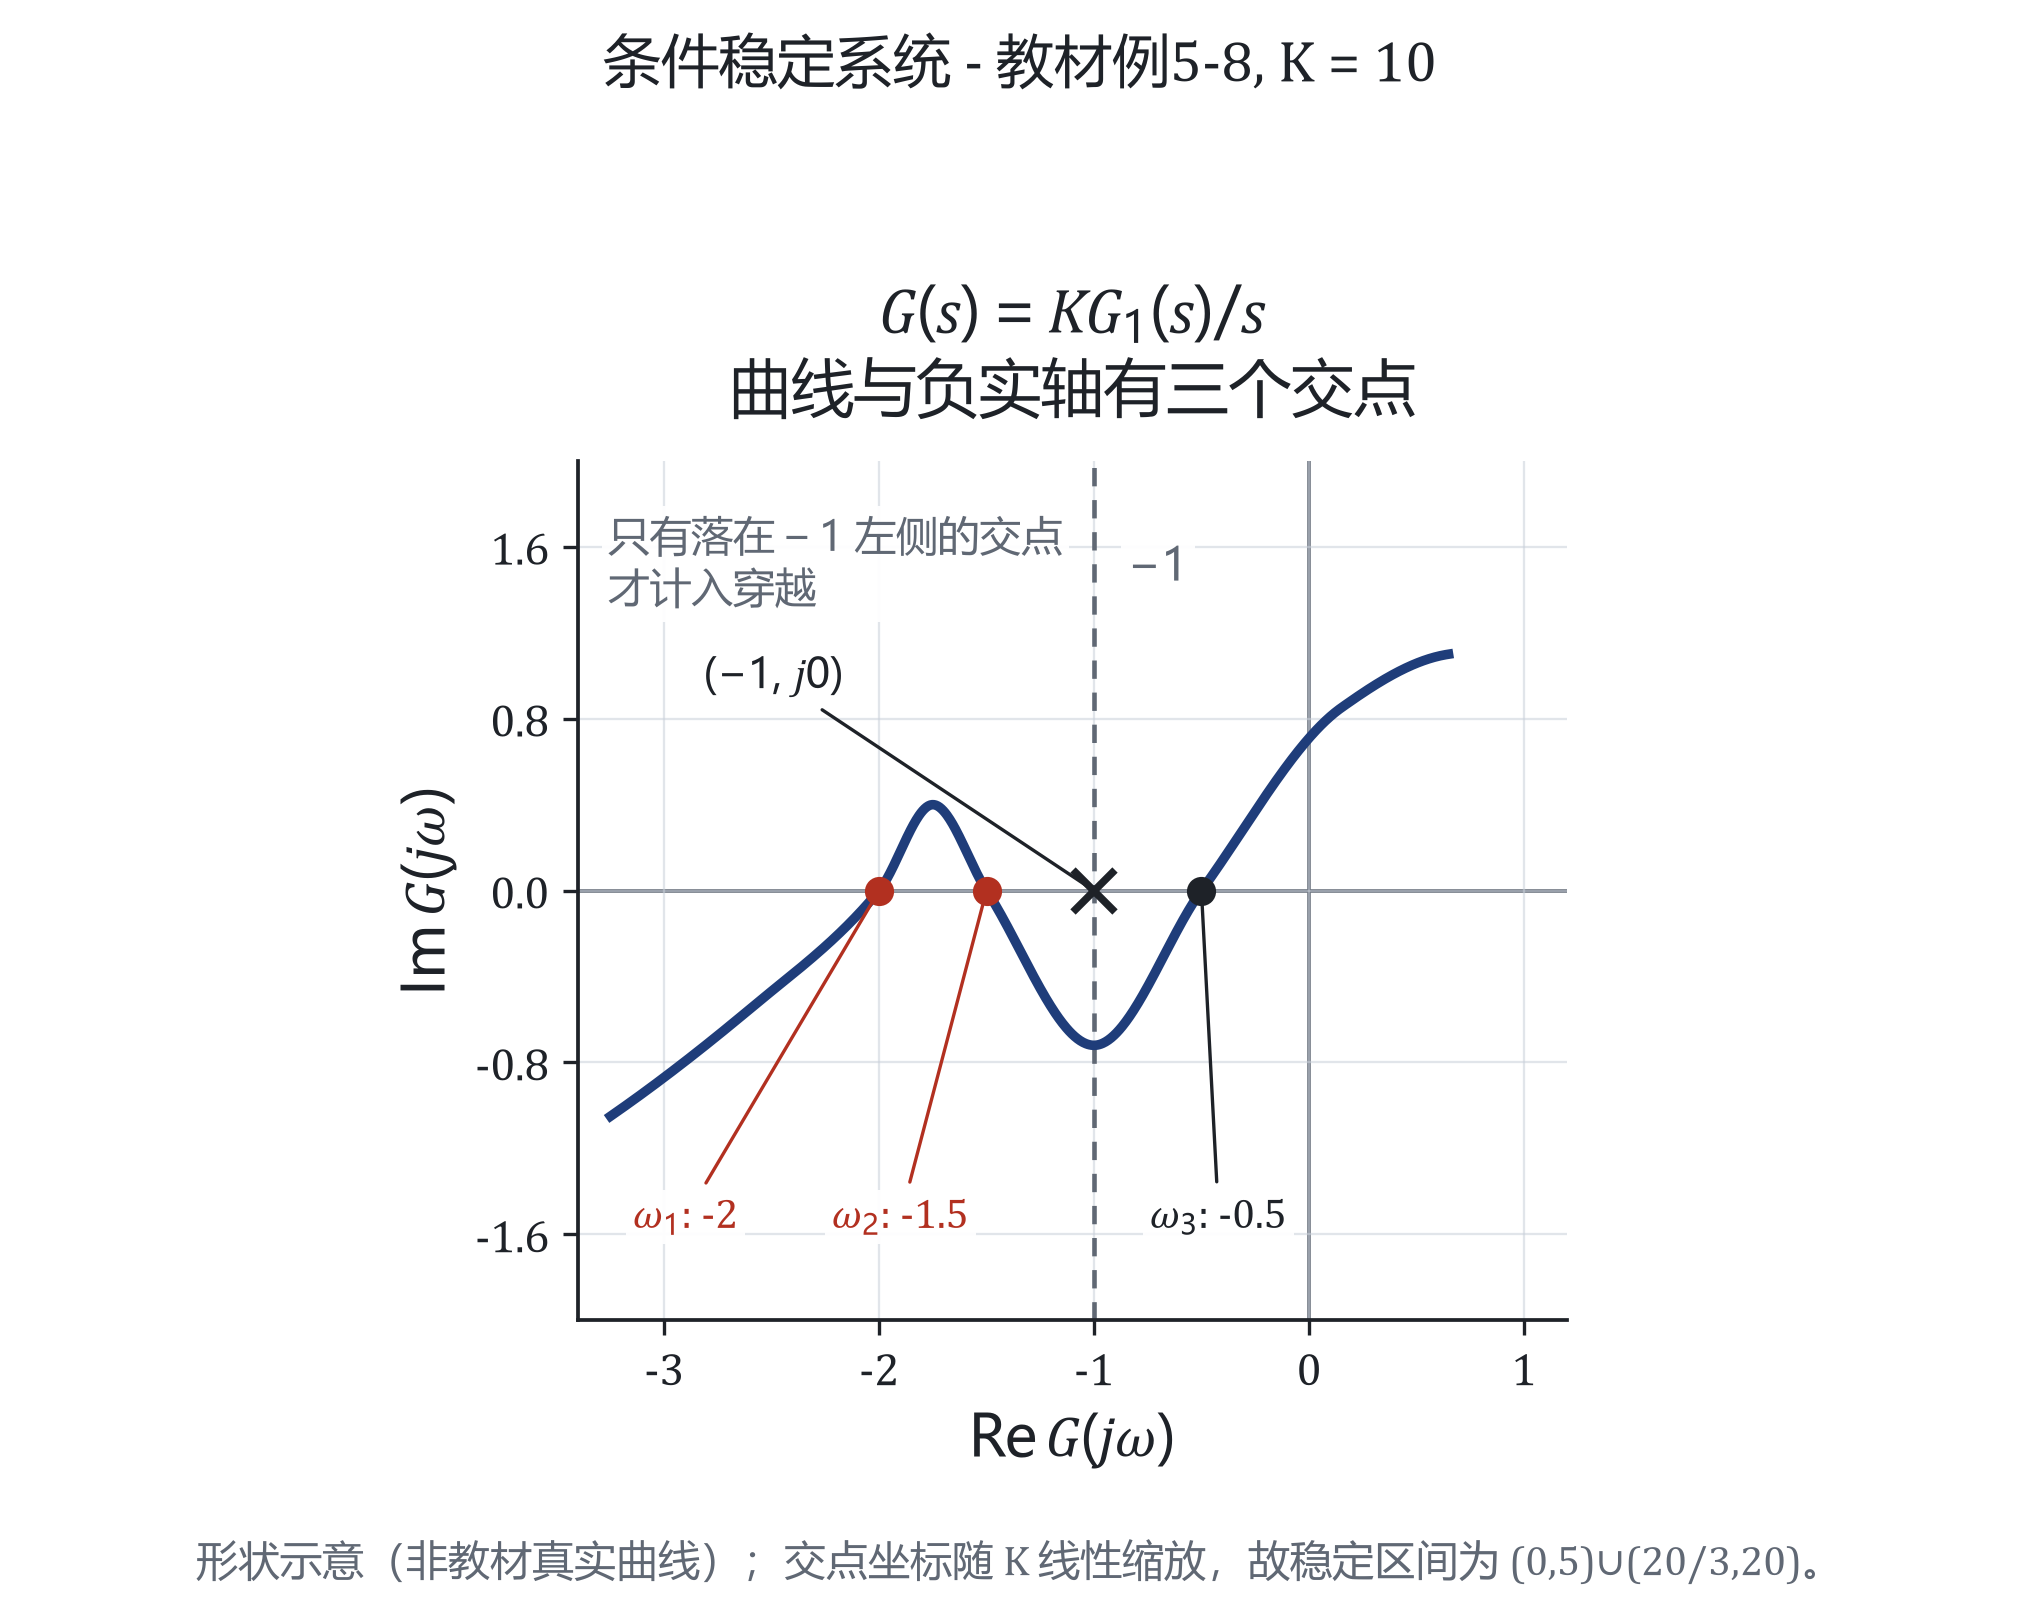
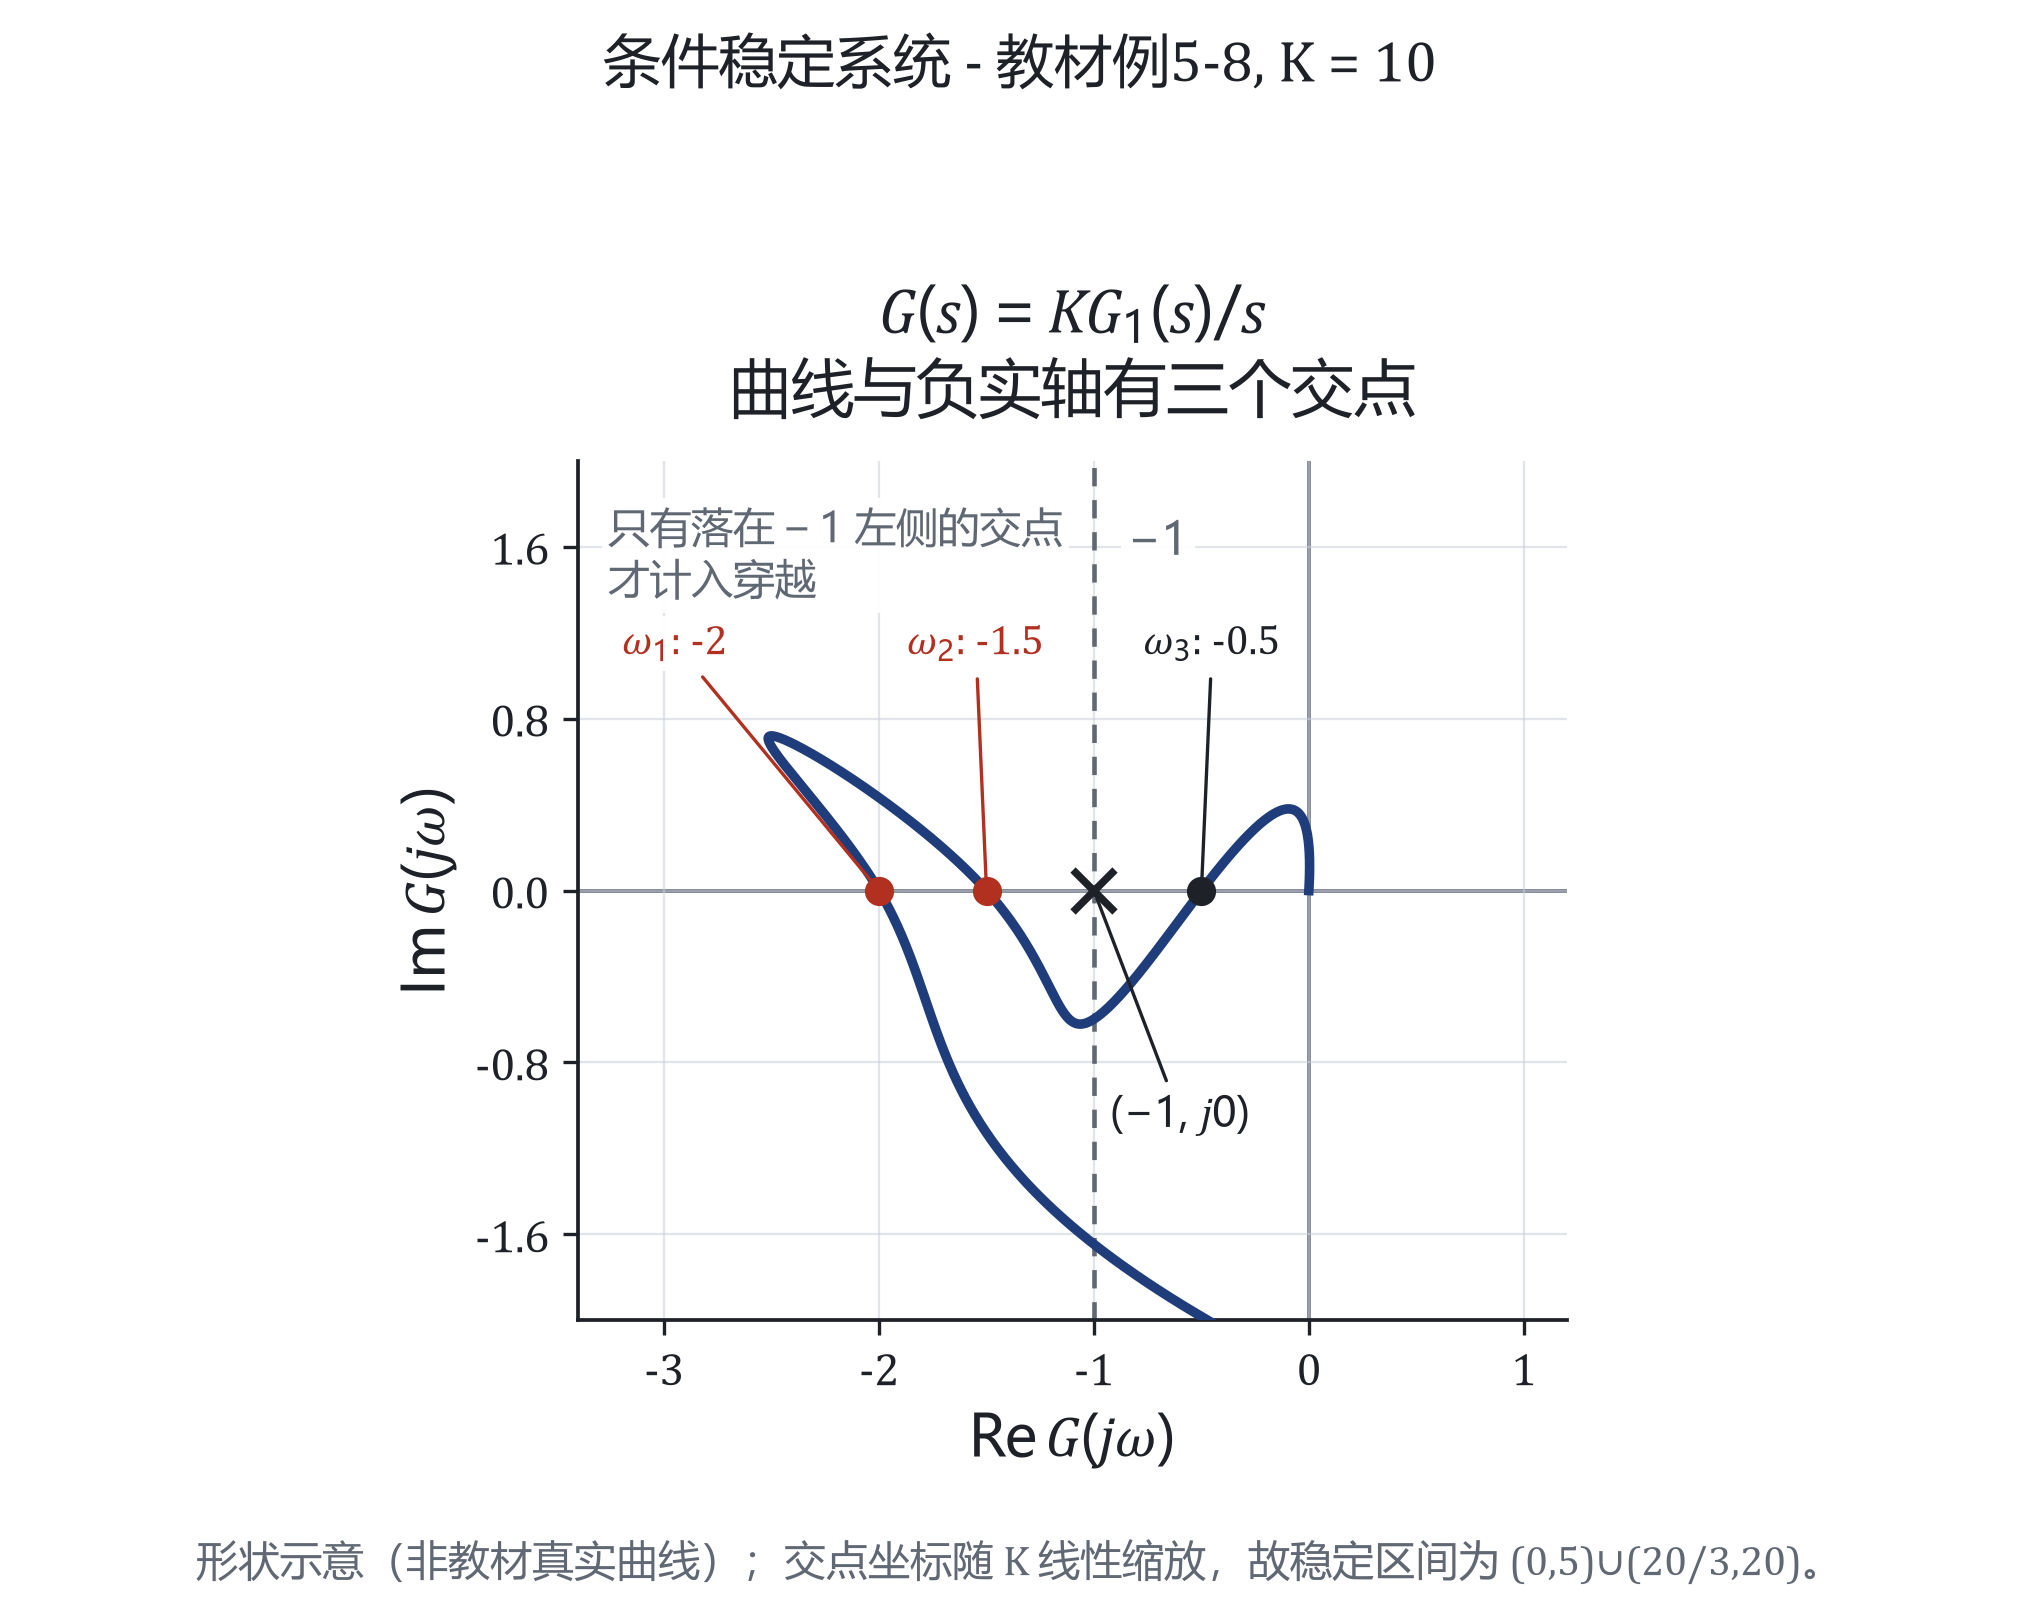
fix: 05-4-a 虚轴奇点补弧图改竖排、条件稳定奈氏图重画
补弧图原为 1x3 横排（3420x1200），笔记里按 |520 显示时每张子图仅约 170px，
字全糊。改为 3x1 竖排（1620x3480，|460 显示约 460x988），字号随之上调，
图注补「自上而下依次对应上表的三行」并修正 (b) 下标笔误。

条件稳定图原用 PCHIP（要求 x 单调，而本曲线 x 不单调）构造，形状不可控。
改用 CubicSpline 参数样条：低频端伸到画面之外、高频收于原点，三个交点
-2/-1.5/-0.5 依次负、正、负穿越，并加四条语义断言（交点处 y=0、过零恰 3 次、
穿越方向与正文一致、低频端出画）。标注重排到曲线够不到的空带。

两张图自检均为「文字 NN 个，问题 0 处」。

diff --git a/.scripts/figures/nyquist-05-2-c.py b/.scripts/figures/nyquist-05-2-c.py
@@ -4,9 +4,12 @@
 
 条件稳定：教材例5-8，$K=10$ 时曲线与负实轴有三个交点 $-2,-1.5,-0.5$，
 交点横坐标随 $K$ 线性缩放，故稳定区间为 $(0,5)\\cup(20/3,20)$。
-教材原图为示意，这里用保形插值（PCHIP）构造一条**严格过三个交点**的曲线，
-并把峰谷压在 $\\pm1.1$ 以内——目的一：曲线真的过"交点"（原来圆点画在实轴上、
-曲线却在 $y\\neq0$ 处，是失真的）；目的二：上下各留出一条空白带专门放标注。
+教材原图为示意。曲线用**参数样条**（x 不单调，不能插值成 y(x)）构造，沿 $\\omega$
+增大方向依次经过：低频端 $(0.1,-2.3)$（画外，表现 $\\nu=1$ 时 $\\omega\\to0$ 沿 $-90^\\circ$
+冲向无穷远）$\\to$ 交点 $-2$（自下而上＝负穿越）$\\to-1.5$（自上而下＝正穿越）
+$\\to-0.5$（自下而上＝负穿越）$\\to$ 收于原点 $0\\angle-270^\\circ$。
+（前一版峰谷封在 $\\pm1.1$ 内、两头都不出画，看着像一段小波浪而不像幅相曲线，
+高频端也没回到原点——已改。）穿越方向、过零次数全部由断言把关。
 
 结构不稳定：$G(s)H(s)=K/[s^2(Ts+1)]$，$\\nu=2$ 使低频相角起步 $-180°$，
 相频始终在 $-180°\\sim-270°$，曲线从第三象限冲向无穷远，$(-1,j0)$ 被围住，
@@ -26,7 +29,7 @@ from pathlib import Path
 
 import control as ct
 import numpy as np
-from scipy.interpolate import PchipInterpolator
+from scipy.interpolate import CubicSpline
 
 import matplotlib.pyplot as plt
 
@@ -43,35 +46,55 @@ def fig_conditionally_stable():
                      r"$G(s)=K G_1(s)/s$" "\n"
                      r"$\mathrm{曲线与负实轴有三个交点}$",
                      (-3.4, 1.2), (-2.0, 2.0), figsize=(6.8, 5.4))
-    # 保形插值：强制在 -2 / -1.5 / -0.5 处取零（真交点），峰谷控制在 ±1.1 内，
-    # 于是 y>1.2 与 y<-1.1 各成一条空白带，专门用来放标注。
-    knots_x = np.array([-3.25, -2.6, -2.0, -1.75, -1.5, -1.0, -0.5, 0.15, 0.65])
-    knots_y = np.array([-1.05, -0.55, 0.0, 0.40, 0.0, -0.72, 0.0, 0.85, 1.10])
-    x = np.linspace(knots_x[0], knots_x[-1], 900)
-    ax.plot(x, PchipInterpolator(knots_x, knots_y)(x),
-            color=fs.MAG, lw=2.3, zorder=4)
+    # 参数样条（x 不单调，不能插值成 y(x)）：沿 ω 增大方向依次经过
+    #   低频端 (0.10, -2.30) —— 画外，表现 ν=1 时 ω→0 沿 -90° 冲向无穷远；
+    #   交点 -2（自下而上 = 负穿越）、-1.5（自上而下 = 正穿越）、-0.5（自下而上 = 负穿越）；
+    #   高频端收于原点 0∠-270°（从正虚轴方向下来）。穿越方向与正文一致。
+    knots_x = np.array([0.10, -1.55, -2.00, -2.50, -1.50, -1.05, -0.50, -0.10, 0.0])
+    knots_y = np.array([-2.30, -1.05, 0.0, 0.72, 0.0, -0.62, 0.0, 0.38, 0.0])
+    t = np.linspace(0.0, 1.0, knots_x.size)
+    # 采样点要把控制点的参数值并进去，否则最近采样点可能落在陡峭处，
+    # 断言会误判（如 x=-1.5 处取到 y=-1.13）
+    tt = np.sort(np.concatenate([np.linspace(0.0, 1.0, 900), t]))
+    cx, cy = CubicSpline(t, knots_x)(tt), CubicSpline(t, knots_y)(tt)
+    # 语义自检：① 三个交点处确实 y=0；② 整条曲线只过零三次（样条不许在中间
+    # 多拐出交点）；③ 穿越方向与正文一致（下→上为负、上→下为正）；
+    # ④ 低频端伸到画面之下（表现 ω→0 冲向无穷远）。
+    for xc in crossings:
+        k = int(np.argmin(np.abs(cx - xc)))
+        assert abs(cy[k]) < 0.03, (xc, cy[k])
+    nz = np.where(np.abs(cy) > 0.05, np.sign(cy), 0)
+    nz = nz[nz != 0]
+    assert int(np.sum(nz[:-1] * nz[1:] < 0)) == 3, "过零次数应恰为 3"
+    for xc, want in zip(crossings, (-1, 1, -1)):
+        k = int(np.argmin(np.abs(cx - xc)))
+        lo, hi = cy[k - 40], cy[k + 40]
+        assert (-1 if lo < 0 < hi else 1) == want, (xc, lo, hi)
+    assert cy[0] < -2.0, cy[0]
+    ax.plot(cx, cy, color=fs.MAG, lw=2.3, zorder=4)
 
     ax.axvline(-1, color=fs.SUB, lw=1.1, ls=(0, (4, 3)), zorder=2)
     # 竖线标签放在线的右侧、顶部空白带里，不骑线
-    ax.annotate(r"$-1$", (-1, 1.50), xytext=(8, 0),
+    ax.annotate(r"$-1$", (-1, 1.62), xytext=(8, 0),
                 textcoords="offset points", color=fs.SUB, fontsize=11,
                 ha="left", va="center", bbox=BOX, zorder=8)
-    # 交点文字统一沉到底部空白带，再用细引线连回交点
-    tag_x = (-2.90, -1.90, -0.42)
+    # 交点文字统一抬到曲线上方那条空带；引线取竖直方向，只在交点处与曲线相接，
+    # 不会横穿曲线（曲线在每个 x 上只有一个 y）
+    tag_x = (-2.95, -1.55, -0.45)
     for i, xc in enumerate(crossings):
         colour = fs.PHA if xc < -1 else fs.INK
         ax.plot(xc, 0, "o", ms=6, color=colour, zorder=7)
         ax.annotate(rf"$\omega_{i + 1}$: {xc:g}", (xc, 0),
-                    xytext=(tag_x[i], -1.52), fontsize=10, color=colour,
+                    xytext=(tag_x[i], 1.15), fontsize=10, color=colour,
                     ha="center", va="center", bbox=BOX, zorder=8,
                     arrowprops=dict(arrowstyle="-", lw=0.8, color=colour))
     ax.plot(-1, 0, marker="x", color=fs.INK, ms=10, mew=1.8, zorder=9)
-    # (-1,j0)：抬到曲线正峰（0.40）之上，且整体留在竖线左侧
-    ax.annotate(r"$(-1,\,j0)$", (-1, 0), xytext=(-60, 46),
-                textcoords="offset points", fontsize=10, color=fs.INK,
-                ha="right", va="bottom", bbox=BOX, zorder=9,
+    # (-1,j0)：曲线在这段最低到 -0.62，只能压到 -1.05 一带的下方空档；
+    # 且框要整个留在竖线右侧，否则会压住 x=-1 那条竖虚线
+    ax.annotate(r"$(-1,\,j0)$", (-1, 0), xytext=(-0.60, -1.05), fontsize=10,
+                color=fs.INK, ha="center", va="center", bbox=BOX, zorder=9,
                 arrowprops=dict(arrowstyle="-", lw=0.8, color=fs.INK))
-    ax.text(0.03, 0.94, r"$\mathrm{只有落在}-1\ \mathrm{左侧的交点}$"
+    ax.text(0.03, 0.95, r"$\mathrm{只有落在}-1\ \mathrm{左侧的交点}$"
                         "\n"
                         r"$\mathrm{才计入穿越}$",
             transform=ax.transAxes, fontsize=10, color=fs.SUB, bbox=BOX,

diff --git a/.scripts/figures/nyquist-spine-arcs.py b/.scripts/figures/nyquist-spine-arcs.py
@@ -9,6 +9,10 @@
 映射到 G 平面后分别是 ν×90° 逆时针、q×180° 顺时针的无穷大弧，以及"收于原点、
 图像连续"——这三条写在正文表里，本图只交代 s 平面那一半。
 图内中文一律写进 $\\mathrm{…}$，`$…$` 段内不用全角标点。
+
+**为什么要竖排**（2026-09-24 改）：原来 1×3 横排、整图 11.4 英寸宽，笔记里按
+|520 显示时每张子图只剩 ~170px，字全糊了。改成 3×1 竖排后每张子图占满整幅宽度，
+同样 |520 显示下每张约 520px，能看清绕法与箭头。
 """
 from __future__ import annotations
 
@@ -49,21 +53,23 @@ def arrow_arc(ax, r, a0, a1, colour, lw=2.2):
 
 def fig_spine_arcs():
     fs.use_style()
-    fig, axes = plt.subplots(1, 3, figsize=(11.4, 4.0))
+    # 3×1 竖排：横排时每张子图在笔记里只有 ~170px 宽，字全糊了
+    fig, axes = plt.subplots(3, 1, figsize=(5.4, 11.6))
 
     # (a) 原点 ν 重极点：只绕 1/4 圈
     ax = axes[0]
     setup(ax)
     ax.plot([0, 0], [-1.05, 1.05], color=fs.INK, lw=1.8, zorder=3)
     arrow_arc(ax, 0.45, 0, 90, fs.PHA)
-    ax.text(-0.06, 1.06, r"$\mathrm{轴就是虚轴: }\sigma=0,\ \omega\in\mathbb{R}$",
-            fontsize=9, color=fs.INK, bbox=BOX, ha="left", zorder=8)
+    # 标签摆虚轴**左侧**（ha="right"）：原来从 x=-0.06 往右写，正好骑在虚轴上
+    ax.text(-0.06, 1.06, r"$\mathrm{虚轴: }\sigma=0,\ \omega\in\mathbb{R}$",
+            fontsize=10, color=fs.INK, bbox=BOX, ha="right", zorder=8)
     ax.text(0.52, 0.60,
             r"$\mathrm{小右半圆: }\theta:0\to90^\circ$" "\n"
             r"$\mathrm{(只需绕到正虚轴)}$" "\n"
             r"$\mathrm{映射: 逆时针}\ \nu\times90^\circ$",
-            fontsize=9, color=fs.PHA, bbox=BOX, ha="left", zorder=8)
-    ax.set_title(r"$\mathrm{(a) 原点}\ \nu\ \mathrm{重极点}$", fontsize=11)
+            fontsize=10, color=fs.PHA, bbox=BOX, ha="left", zorder=8)
+    ax.set_title(r"$\mathrm{(a) 原点}\ \nu\ \mathrm{重极点}$", fontsize=11.5)
 
     # (b) 非零 jω₀ 处 q 重极点：绕完整小右半圆
     ax = axes[1]
@@ -78,12 +84,11 @@ def fig_spine_arcs():
             bbox=BOX, ha="left", zorder=8)
     ax.text(0.52, 0.10,
             r"$\mathrm{完整小右半圆: }\theta:-90^\circ\to90^\circ$" "\n"
-            r"$\mathrm{(要绕回}_{\mathrm{轴}})$"
-            r"$\mathrm{, 不是一半}$" "\n"
+            r"$\mathrm{(完整半圈, 不是}\ 1/4\ \mathrm{圈)}$" "\n"
             r"$\mathrm{映射: 顺时针}\ q\times180^\circ$",
-            fontsize=9, color=fs.PHA, bbox=BOX, ha="left", zorder=8)
+            fontsize=10, color=fs.PHA, bbox=BOX, ha="left", zorder=8)
     ax.set_title(r"$\mathrm{(b)}\ j\omega_0\ \mathrm{处}\ q\ \mathrm{重极点}$",
-                 fontsize=11)
+                 fontsize=11.5)
 
     # (c) jω₀ 处零点：不必绕
     ax = axes[2]
@@ -97,8 +102,8 @@ def fig_spine_arcs():
             r"$\mathrm{零点: }G\ \mathrm{在此解析}$" "\n"
             r"$\mathrm{围线直接穿过, 不绕}$" "\n"
             r"$\mathrm{映射: 两端收于原点, 连续}$",
-            fontsize=9, color=fs.MAG, bbox=BOX, ha="left", zorder=8)
-    ax.set_title(r"$\mathrm{(c)}\ j\omega_0\ \mathrm{处零点}$", fontsize=11)
+            fontsize=10, color=fs.MAG, bbox=BOX, ha="left", zorder=8)
+    ax.set_title(r"$\mathrm{(c)}\ j\omega_0\ \mathrm{处零点}$", fontsize=11.5)
 
     # (b)(c) 的围线画在 Im s = 0.55，标注一下
     for ax in axes[1:]:

diff --git a/控制理论/自动控制原理/05-4-a 奈氏特殊情形与条件稳定.md b/控制理论/自动控制原理/05-4-a 奈氏特殊情形与条件稳定.md
@@ -37,9 +37,9 @@ $$
 | 非零 $\mathrm j\omega_0$ 处 $q$ 重**极点** | 绕**完整** $180°$：$\theta:-90°\to90°$ | 顺时针 $q\times180°$ 的**无穷大**弧 | 沿弧本身顺时针走 | 同上 |
 | $\mathrm j\omega_0$ 处**零点** | **不用绕**（$G$ 在该点解析，围线可穿过） | $G=0$，落在**原点** | — | 两端在原点自动接上，**不补弧、无相角跳变** |
 
-![[频域-奈氏-虚轴奇点补弧.png|520]]
+![[频域-奈氏-虚轴奇点补弧.png|460]]
 
-*三种情形在 $s$ 平面上的绕法：(a) 原点只需绕 $1/4$ 圈，(b) 非零虚轴极点要绕完整半圈，(c) 零点不必绕。映射到 $G$ 平面后的弧长与方向见上表第 ②③ 列。*
+*三种情形在 $s$ 平面上的绕法，**自上而下依次对应上表的三行**：(a) 原点只需绕 $1/4$ 圈，(b) 非零虚轴极点要绕完整半圈，(c) 零点不必绕（围线直接穿过）。映射到 $G$ 平面后的弧长与方向见上表第 ②③ 列。*
 
 > [!note] 两个"一半"容易听混，分开记
 > **角度上的一半**：原点处在围线的**端点**（围线从 $\omega=0^+$ 起算），所以只取小半圆的 $90°$，映射成 $\nu\times90°$；非零 $\mathrm j\omega_0$ 处在围线**中途**，前后都要接上，所以取完整 $180°$，映射成 $q\times180°$。
@@ -105,7 +105,7 @@ $$
 > **③ 结论。** 闭环稳定时
 >
 > ![[频域-奈氏-条件稳定.png|430]]
-> *形状示意：三个交点 −2、−1.5、−0.5 依次为负、正、负穿越，坐标随 K 线性缩放；真实曲线形状以教材图5-33 为准。*
+> *形状示意（非教材实测曲线，走向与穿越方向按本例构造并断言）：沿 $\omega$ 增大方向，曲线从低频无穷远（画面下方之外）上来，依次在 $-2$ **自下而上**、$-1.5$ **自上而下**、$-0.5$ **自下而上**穿过负实轴——即**负、正、负**三次穿越，最后收于原点。交点坐标随 $K$ 线性缩放；真实曲线形状以教材图5-33 为准。*
 >
 > $$
 > K\in(0,5)\cup\left(\frac{20}{3},20\right)
